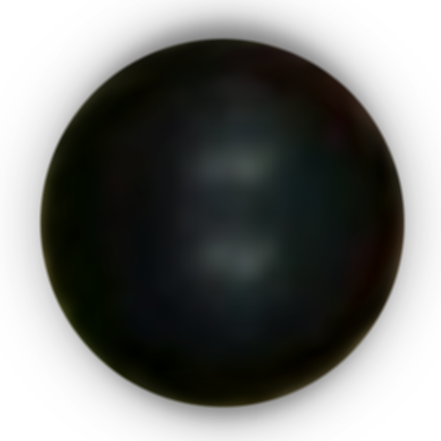
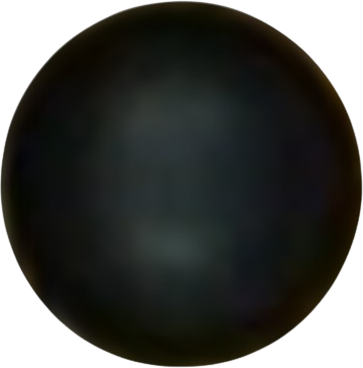
fix: 1. badukTV stone assets 2. removed stone scaling and overflow

diff --git a/lib/board/stone.dart b/lib/board/stone.dart
@@ -1,18 +1,16 @@
 import 'package:flutter/material.dart';
 
-/// Base class for all stone types
 abstract class Stone extends StatelessWidget {
   const Stone({super.key});
 }
 
-/// Solid color stone (for simple themes or testing)
 class SolidColorStone extends Stone {
   final Color? color;
   final Gradient? gradient;
   final bool border;
 
   const SolidColorStone(
-    {super.key, this.color, this.gradient, required this.border});
+      {super.key, this.color, this.gradient, required this.border});
 
   @override
   Widget build(BuildContext context) {
@@ -27,48 +25,16 @@ class SolidColorStone extends Stone {
   }
 }
 
-/// Image-based stone (Fox, Tygem, etc.)
-/// Scaling + overflow are integrated:
-/// - scale controls relative size
-/// - if the scaled size is larger than the board cell, it will overflow automatically
 class ImageStone extends Stone {
   final AssetImage image;
 
-  /// Multiplier relative to the parent cell size.
-  /// 1.0 = normal fit, >1.0 = bigger, <1.0 = smaller.
-  final double scale;
-  final bool forceOverflow;
-
-  const ImageStone({super.key, required this.image, this.scale = 1.0, this.forceOverflow = false});
+  const ImageStone({super.key, required this.image});
 
   @override
   Widget build(BuildContext context) {
-    return LayoutBuilder(
-      builder: (context, constraints) {
-        final cellSize = constraints.biggest.shortestSide;
-        final stoneSize = cellSize * scale;
-
-        final stoneImage = Image(
-          image: image,
-          fit: BoxFit.contain,
-          width: stoneSize,
-          height: stoneSize,
-        );
-
-        final needsOverflow = stoneSize > cellSize;
-
-        if (needsOverflow || forceOverflow) {
-          return Center(
-            child: OverflowBox(
-              maxWidth: double.infinity,
-              maxHeight: double.infinity,
-              child: stoneImage,
-            ),
-          );
-        } else {
-          return Center(child: stoneImage);
-        }
-      },
+    return Image(
+      image: image,
+      fit: BoxFit.contain,
     );
   }
 }

diff --git a/lib/board/board_theme.dart b/lib/board/board_theme.dart
@@ -137,8 +137,8 @@ class BoardTheme {
     displayName: 'BadukTV',
     background: ImageBoardBackground(
         image: AssetImage('$_imagesPath/board/baduktv.png')),
-    blackStone: ImageStone(image: AssetImage('$_imagesPath/stones/baduktv_b.png'), scale: 1.2,),
-    whiteStone: ImageStone(image: AssetImage('$_imagesPath/stones/baduktv_w.png'), scale: 1.2,),
+    blackStone: ImageStone(image: AssetImage('$_imagesPath/stones/baduktv_b.png')),
+    whiteStone: ImageStone(image: AssetImage('$_imagesPath/stones/baduktv_w.png')),
     lineColor: Colors.black,
   );
 
